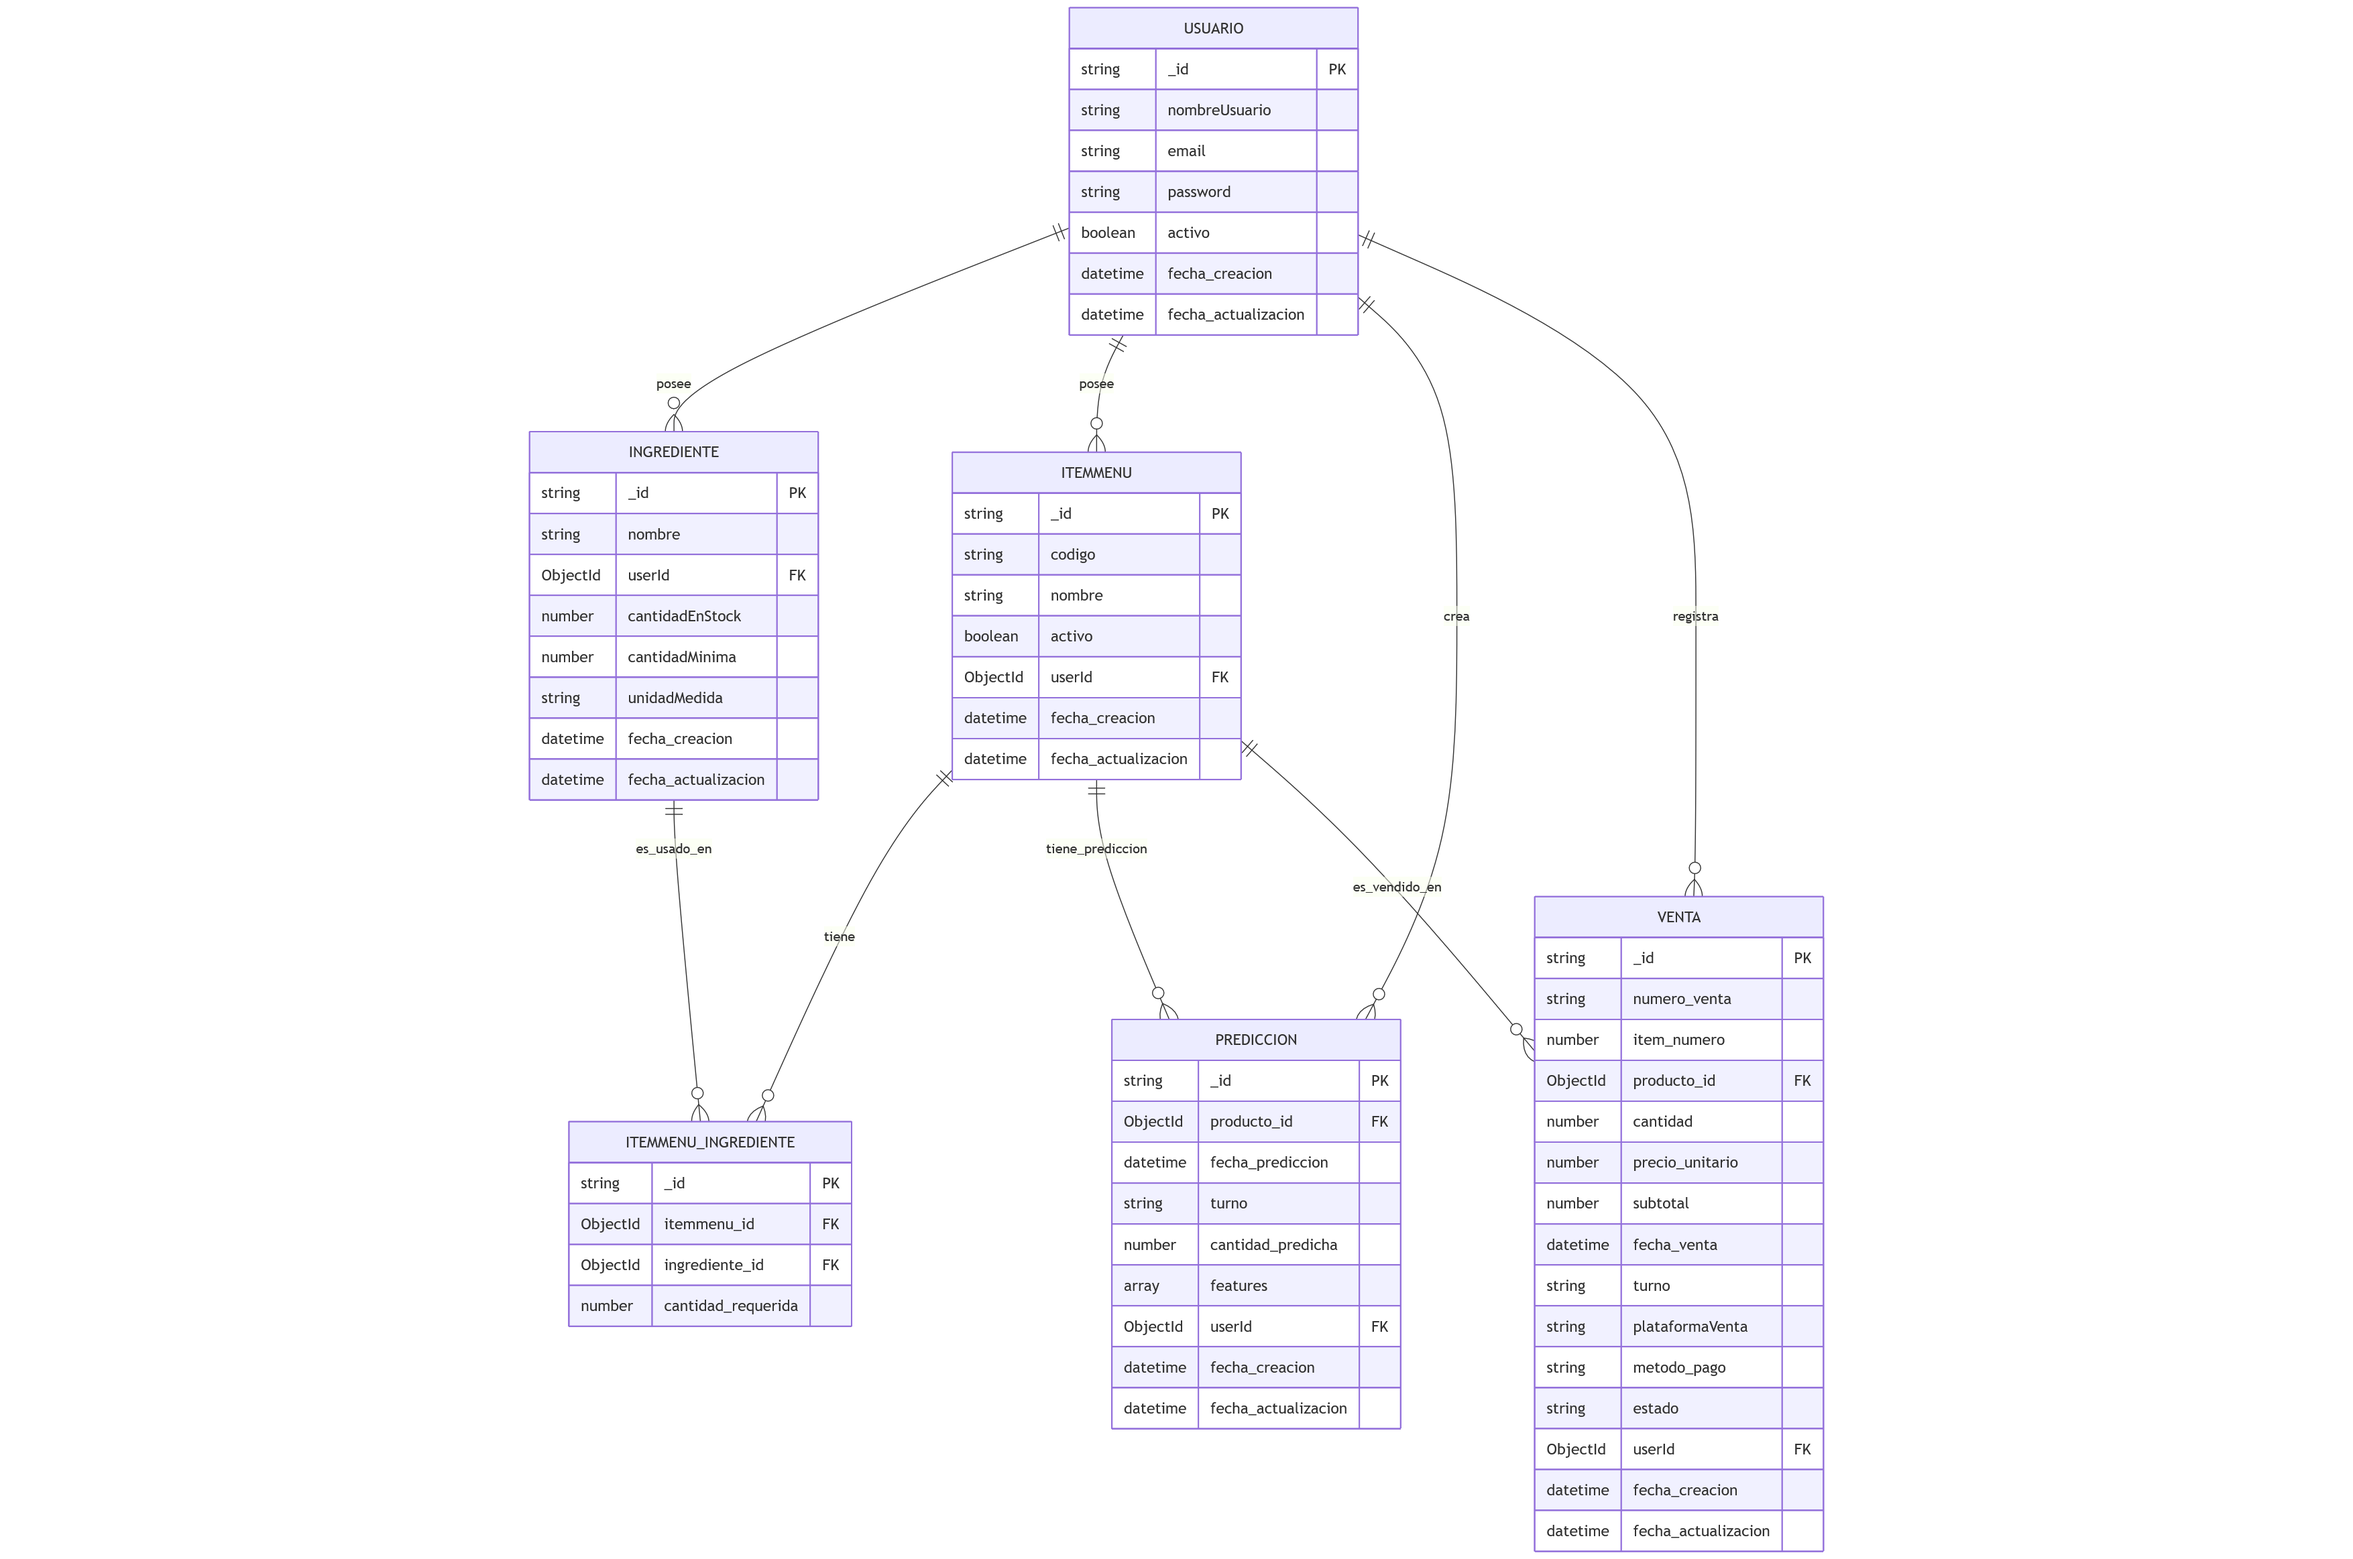
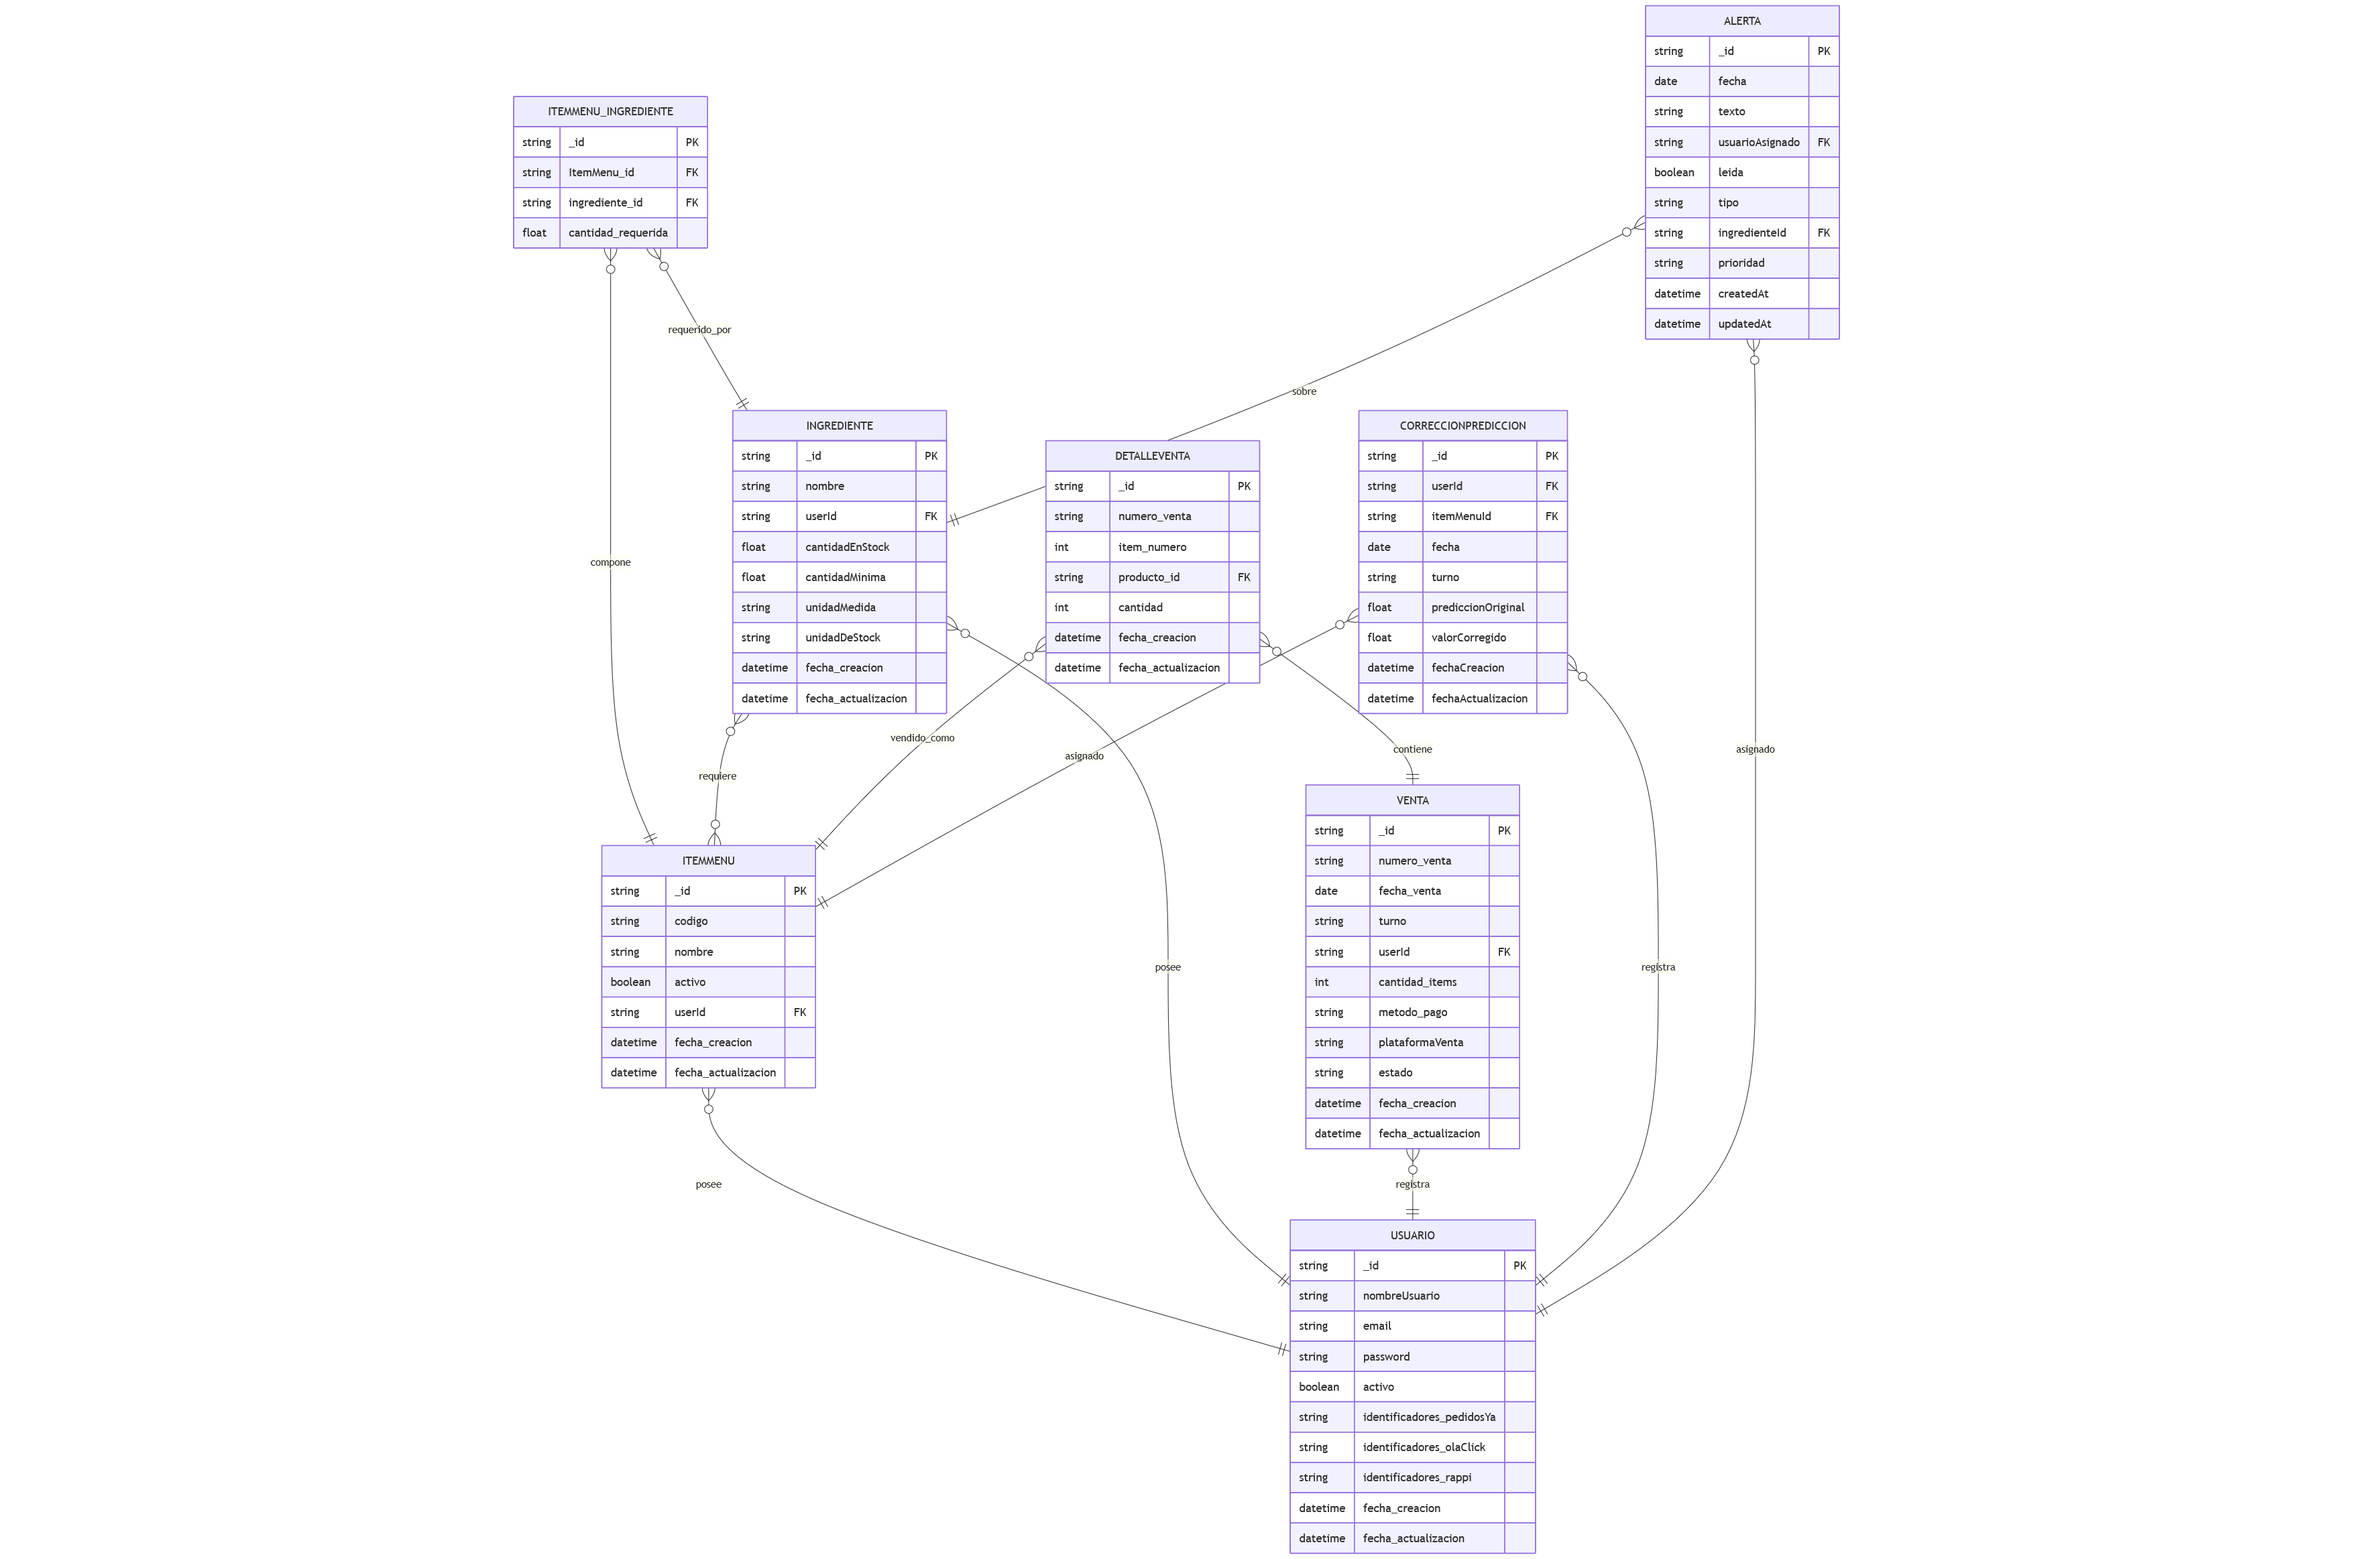
cambios der

diff --git a/chapters/chapter04.tex b/chapters/chapter04.tex
@@ -412,7 +412,14 @@ Por último, se decidió usar AWS Sagemaker en el pipeline de ML, puesto que sim
 
 Para el diseño de la base de datos, se opto por utilizar DocumentDB, una de las alternativas NoSQL brindadas por AWS, debido a la flexibilidad y capacidades de escalado automatico que esta nos provee, siendo la flexibilidad del schema algo critico dada la necesidad de agregar campos adicionales conforme el proceso de ETL o entrenamiento del modelo de ML lo requieran.
 
-El diseño de la base de datos se organiza alrededor de cinco entidades principales: Usuario, ItemMenu, Ingrediente, Predicción y Venta. La entidad Usuario representa a un negocio dentro de la plataforma. A su vez, la entidad Ingrediente almacena los insumos (nombre, unidad de medida, cantidad en stock y cantidad mínima) y su propietario (userId), mientras que ItemMenu registra los productos ofrecidos (código, nombre, estado activo) y contiene la lista de ingredientes necesarios para cada receta. Esa relación N:M entre ItemMenu e Ingrediente se materializa en la tabla/intersección (el subdocumento de ingredientes) que guarda, por cada par producto-ingrediente, la cantidad\_requerida. La entidad Predicción registra las predicciones de demanda vinculadas a un producto\_id (ItemMenu) con fecha\_prediccion, turno, cantidad\_predicha y el userId que la generó; y la entidad Venta recoge las transacciones reales (número de venta, ítem, producto, cantidad, precio unitario, subtotal, fecha, turno, plataforma, método de pago y estado) asociadas también a un userId. Todos los documentos incluyen timestamps (fecha\_creacion / fecha\_actualizacion) para auditoría.
+El diseño de la base de datos se estructura en torno a siete entidades principales: Usuario, ItemMenu, Ingrediente, ItemMenu\_Ingrediente, Venta, DetalleVenta,CorreccionPrediccion y Alerta.
+La entidad Usuario representa a cada negocio dentro de la plataforma, almacenando información básica de acceso (nombre de usuario, email, contraseña), su estado de actividad y los identificadores de integración con plataformas externas como PedidosYa, Rappi u OláClick.
+La entidad Ingrediente contiene los insumos del negocio, registrando su nombre, unidad de medida, cantidad en stock, cantidad mínima y unidad de stock, además del userId propietario, mientras que ItemMenu registra los productos ofrecidos (código, nombre, estado activo) y contiene la lista de ingredientes necesarios para cada receta. Esa relación N:M entre ItemMenu e Ingrediente se materializa en la tabla/intersección (el subdocumento de ingredientes) que guarda, por cada par producto-ingrediente, la cantidad\_requerida. 
+La entidad Predicción registra las predicciones de demanda vinculadas a un producto\_id (ItemMenu) con fecha\_prediccion, turno, cantidad\_predicha y el userId que la generó. 
+La entidad Venta registra las transacciones realizadas, incluyendo el número de venta, fecha, turno, método de pago, plataforma de venta, estado y cantidad total de ítems, todo asociado a un userId y a su vez una se descompone en varios ítems dentro de la entidad DetalleVenta, donde se detallan el producto (ItemMenu), la cantidad, el precio unitario y el subtotal, lo que permite realizar análisis más precisos por producto y turno. 
+La entidad CorreccionPrediccion guarda el feedback explícito del usuario sobre los valores predichos por el modelo. Cada registro asocia un itemMenuId y un userId con la predicción original, el valor corregido, la fecha y el turno, permitiendo incluir el feedback del usuario en la prediccion.
+Finalmente, la entidad Alerta gestiona las alertas de stock, asociando cada una a su correspondiente a usuarios e ingredientes, con indicadores de lectura y fechas de creación y actualización.
+Todos los documentos incluyen timestamps (fecha\_creacion / fecha\_actualizacion) para auditoría.
 
 \begin{figure}[H]
     \centering
